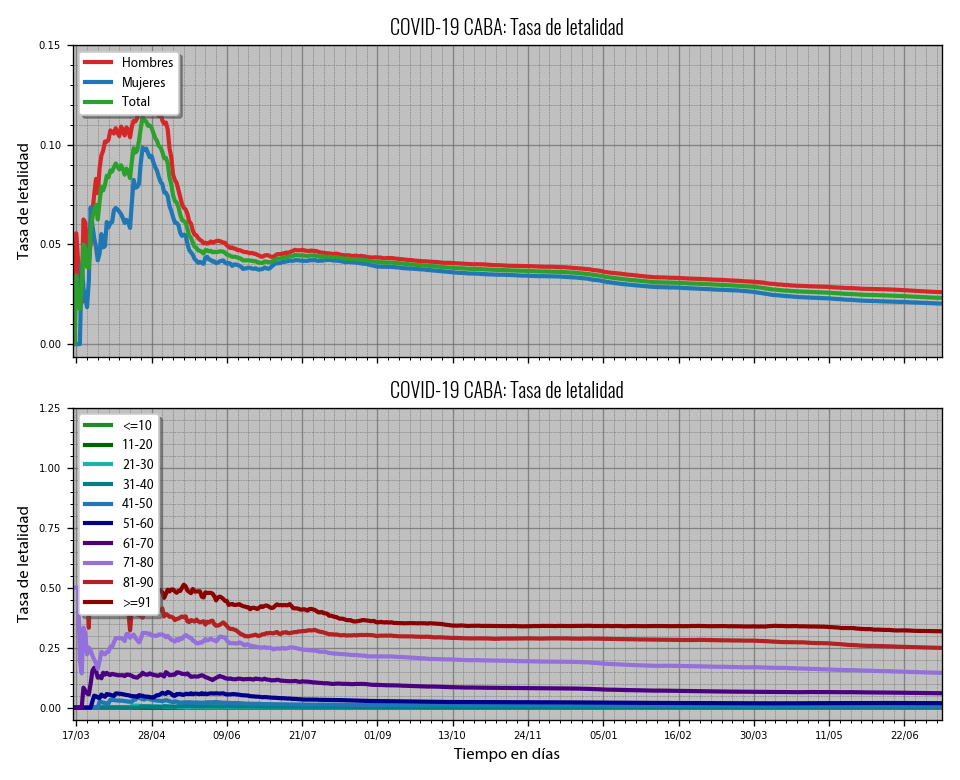
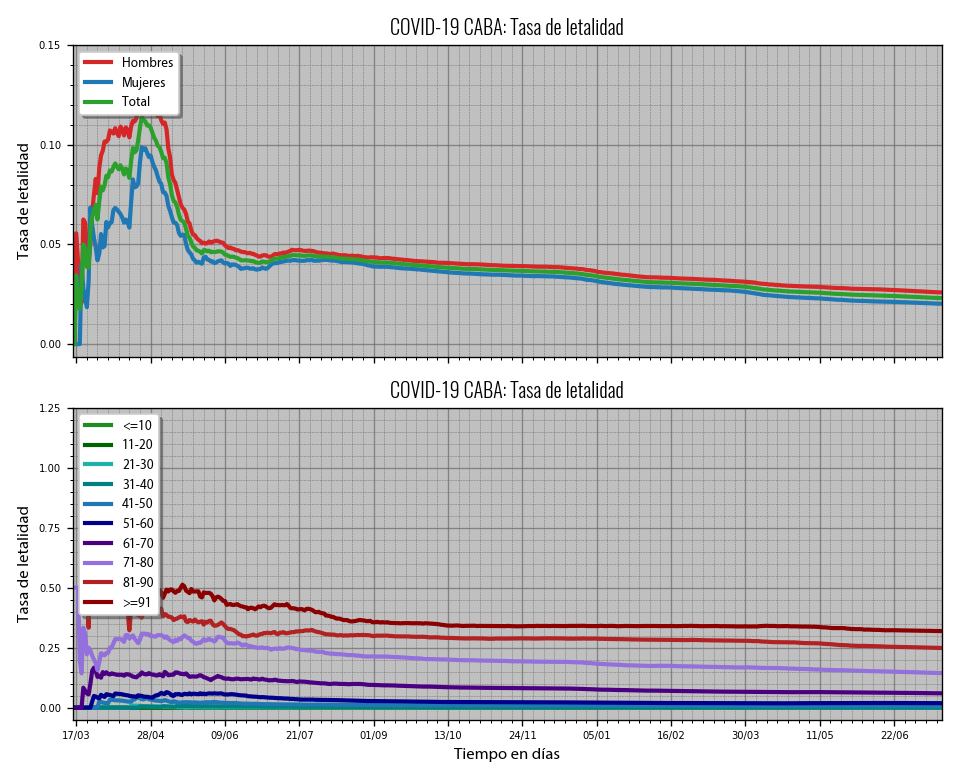
Updating charts...

diff --git a/chart_config.py b/chart_config.py
@@ -26,7 +26,7 @@ language = 1 #0 = english, 1 = spanish
 legend_text_size = 8
 plot_scale = "linear"
 start_date = "2020-11-01"
-end_date = "2021-07-13"
+end_date = "2021-07-19"
 week_interval = 3
 v_start_date = "2021-01-01"
 v_week_interval = 2
